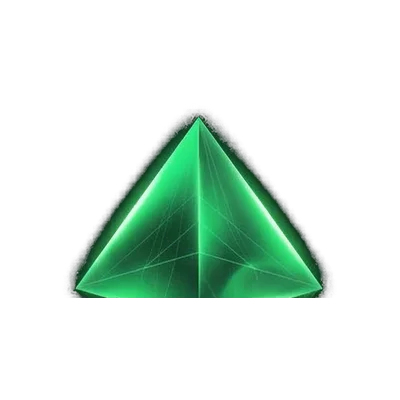
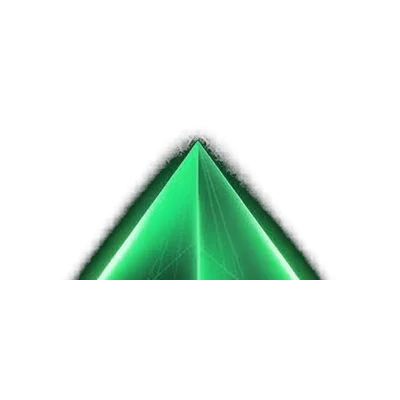
Real Rast products, diet from profile, overview, pyramid fix, round kaffee
Kaffee:
- Real Rast sortiment from rastshop.ch:
  Milano, Bologna Bio Fairtrade, Como Bio Fairtrade, Bio Espresso,
  Yirga Cheffe Bio, Barista Espresso, Eldorado, Premium, Wiener,
  Festival, Jubiläums-Edition, Home-Office, Koffeinfrei Bio Fairtrade
- Each with real origin info and tasting notes from rastshop.ch

Meal signup:
- Own diet/allergies now taken from profile (not asked again)
- Only guests get diet + allergies fields
- Diet summary pills at top of meal section:
  🍖 X Fleisch  🥗 X Vegi  🌱 X Vegan

Pyramid:
- Re-cropped tighter (700x350 region, y 100-450)
- Now fits properly, no clipping on HomeScreen

Home Kaffee widget:
- Round-corner tile (rounded-3xl) with gradient
- Large ☕ icon
- Shows: name, tasting notes, origin, Fair Trade badge
- Much richer than before

https://claude.ai/code/session_01US6CgeRv9ty9KR9cqwQo8o

Changed region(s): [[0.15, 0.27, 0.84, 0.75]]

diff --git a/src/app/termine/[id]/page.tsx b/src/app/termine/[id]/page.tsx
@@ -212,9 +212,11 @@ export default function TerminDetailPage() {
   const [termin, setTermin] = useState<TerminDetail | null>(initial ?? null);
   const [newTraktandum, setNewTraktandum] = useState("");
   const [showSignup, setShowSignup] = useState(false);
-  const [signupDiet, setSignupDiet] = useState("Fleisch");
-  const [signupAllergies, setSignupAllergies] = useState("");
   const [signupGuestDetails, setSignupGuestDetails] = useState<Guest[]>([]);
+
+  // Aus Profil (Mock)
+  const myDiet = "Fleisch";
+  const myAllergies = "";
 
   if (!termin) {
     return (
@@ -230,6 +232,19 @@ export default function TerminDetailPage() {
     (sum, s) => sum + 1 + s.guestDetails.length,
     0
   );
+
+  // Diät-Zusammenfassung
+  const dietCounts = { Fleisch: 0, Vegi: 0, Vegan: 0, Andere: 0 };
+  termin.mealSignups.forEach((s) => {
+    const add = (d: string) => {
+      if (d === "Fleisch") dietCounts.Fleisch++;
+      else if (d === "Vegi") dietCounts.Vegi++;
+      else if (d === "Vegan") dietCounts.Vegan++;
+      else dietCounts.Andere++;
+    };
+    add(s.diet);
+    s.guestDetails.forEach((g) => add(g.diet));
+  });
 
   function addTraktandum(e: React.FormEvent) {
     e.preventDefault();
@@ -268,14 +283,13 @@ export default function TerminDetailPage() {
         ...termin.mealSignups,
         {
           name: "Alain",
-          diet: signupDiet,
-          allergies: signupAllergies,
+          diet: myDiet,
+          allergies: myAllergies,
           guestDetails: signupGuestDetails,
         },
       ],
     });
     setShowSignup(false);
-    setSignupAllergies("");
     setSignupGuestDetails([]);
   }
 
@@ -520,53 +534,46 @@ export default function TerminDetailPage() {
             </button>
           </div>
 
+          {/* Diät-Zusammenfassung */}
+          {totalGuests > 0 && (
+            <div className="mb-3 flex flex-wrap gap-2">
+              {dietCounts.Fleisch > 0 && (
+                <span className="rounded-full bg-red-500/15 px-3 py-1 text-xs text-red-300">
+                  🍖 {dietCounts.Fleisch} Fleisch
+                </span>
+              )}
+              {dietCounts.Vegi > 0 && (
+                <span className="rounded-full bg-lime-500/15 px-3 py-1 text-xs text-lime-300">
+                  🥗 {dietCounts.Vegi} Vegi
+                </span>
+              )}
+              {dietCounts.Vegan > 0 && (
+                <span className="rounded-full bg-emerald-500/15 px-3 py-1 text-xs text-emerald-300">
+                  🌱 {dietCounts.Vegan} Vegan
+                </span>
+              )}
+              {dietCounts.Andere > 0 && (
+                <span className="rounded-full bg-gray-500/15 px-3 py-1 text-xs text-gray-300">
+                  {dietCounts.Andere} Andere
+                </span>
+              )}
+            </div>
+          )}
+
           {showSignup && (
             <form
               onSubmit={handleMealSignup}
               className="mb-3 rounded-lg border border-secondary/30 bg-secondary/5 p-3"
             >
-              {/* Eigene Anmeldung */}
-              <p className="mb-2 font-mono text-[10px] font-bold uppercase tracking-wider text-secondary">
-                Ich selbst
+              <p className="mb-3 text-xs text-gray-400">
+                Deine Ernährung ({myDiet}) wird automatisch aus deinem Profil
+                übernommen.
               </p>
-              <div className="mb-2">
-                <label className="mb-1 block text-xs text-gray-400">
-                  Meine Ernährung
-                </label>
-                <div className="flex gap-2">
-                  {["Fleisch", "Vegi", "Vegan"].map((d) => (
-                    <button
-                      key={d}
-                      type="button"
-                      onClick={() => setSignupDiet(d)}
-                      className={`flex-1 rounded py-1.5 font-mono text-xs transition-colors ${
-                        signupDiet === d
-                          ? "bg-secondary text-white"
-                          : "border border-gray-700 text-gray-400"
-                      }`}
-                    >
-                      {d}
-                    </button>
-                  ))}
-                </div>
-              </div>
-              <div className="mb-3">
-                <label className="mb-1 block text-xs text-gray-400">
-                  Meine Allergien / Unverträglichkeiten
-                </label>
-                <input
-                  type="text"
-                  value={signupAllergies}
-                  onChange={(e) => setSignupAllergies(e.target.value)}
-                  placeholder="z.B. Laktose, Nüsse..."
-                  className="w-full rounded border border-gray-700 bg-gray-900 px-3 py-1.5 text-sm text-white focus:border-secondary focus:outline-none"
-                />
-              </div>
 
               {/* Gäste */}
-              <div className="mb-3 flex items-center justify-between border-t border-secondary/20 pt-3">
+              <div className="mb-3 flex items-center justify-between">
                 <p className="font-mono text-[10px] font-bold uppercase tracking-wider text-secondary">
-                  Gäste ({signupGuestDetails.length})
+                  Gäste mitbringen ({signupGuestDetails.length})
                 </p>
                 <button
                   type="button"

diff --git a/src/app/kaffee/page.tsx b/src/app/kaffee/page.tsx
@@ -18,61 +18,91 @@ interface RastKaffee {
   fairtrade: boolean;
 }
 
-// Sortiment Rast Kaffee (Ebikon) — manuell gepflegt, keine Live-API
+// Sortiment Rast Kaffee (Ebikon) — manuell gepflegt nach rastshop.ch
 const rastSortiment: RastKaffee[] = [
   {
-    name: "Crema No. 1",
-    herkunft: "Brasilien, Honduras, Äthiopien",
-    duftnotizen: "Schokolade, Mandel, milde Säure",
-    fairtrade: true,
-  },
-  {
-    name: "Espresso No. 3",
-    herkunft: "Brasilien, Indien, Guatemala",
-    duftnotizen: "Dunkle Schokolade, Karamell, Haselnuss",
-    fairtrade: true,
-  },
-  {
-    name: "Espresso Forte",
-    herkunft: "Brasilien, Robusta",
-    duftnotizen: "Kräftig, würzig, lange Crema",
+    name: "Milano",
+    herkunft: "Guatemala, Costa Rica, Brasilien, Java",
+    duftnotizen: "Kräftig, schokoladig, voller Körper",
     fairtrade: false,
   },
   {
-    name: "Espresso Decaffeinato",
-    herkunft: "Mexiko, Honduras",
-    duftnotizen: "Nougat, Kakao, Vanille (entkoffeiniert)",
+    name: "Bologna Bio Fairtrade",
+    herkunft: "Bio Arabica Blend",
+    duftnotizen: "Klassisch italienisch, modern & frisch",
     fairtrade: true,
   },
   {
-    name: "Äthiopien Sidamo",
-    herkunft: "Äthiopien",
-    duftnotizen: "Jasmin, Zitrusfrucht, Blaubeere",
+    name: "Como Bio Fairtrade",
+    herkunft: "Bio Arabica",
+    duftnotizen: "Bittermandel, Schokolade, feine Zitrusnote",
     fairtrade: true,
   },
   {
-    name: "Kolumbien Supremo",
-    herkunft: "Kolumbien",
-    duftnotizen: "Karamell, Orange, Walnuss",
+    name: "Bio Espresso",
+    herkunft: "Brasilien, Indonesien (Bio)",
+    duftnotizen: "Beeren, dunkle Nussschokolade",
     fairtrade: true,
   },
   {
-    name: "Guatemala Antigua",
-    herkunft: "Guatemala",
-    duftnotizen: "Schokolade, Gewürze, feine Rauchnote",
+    name: "Yirga Cheffe Bio",
+    herkunft: "Äthiopien (1500-2200m)",
+    duftnotizen: "Jasmin, Bergamotte, Blumen",
     fairtrade: true,
   },
   {
-    name: "Peru Bio",
-    herkunft: "Peru",
-    duftnotizen: "Milchschokolade, Rohrzucker, sanft",
+    name: "Barista Espresso",
+    herkunft: "Kenia, Guatemala, Indonesien, Indien, Brasilien",
+    duftnotizen: "Komplex, intensiv, lange Crema",
+    fairtrade: false,
+  },
+  {
+    name: "Eldorado",
+    herkunft: "Indien, Guatemala, Brasilien, Costa Rica",
+    duftnotizen: "Ausgewogen, süsslich, Karamell",
+    fairtrade: false,
+  },
+  {
+    name: "Premium",
+    herkunft: "Indonesien, Guatemala, Brasilien, Indien",
+    duftnotizen: "Vollmundig, nussig, wenig Säure",
+    fairtrade: false,
+  },
+  {
+    name: "Wiener",
+    herkunft: "Guatemala, Costa Rica, Brasilien, Indonesien",
+    duftnotizen: "Traditionell, weich, nussig",
+    fairtrade: false,
+  },
+  {
+    name: "Festival",
+    herkunft: "Kenia, Guatemala, Brasilien, Costa Rica",
+    duftnotizen: "Fruchtig, lebendig, feine Säure",
+    fairtrade: false,
+  },
+  {
+    name: "Jubiläums-Edition",
+    herkunft: "Papua-Neuguinea, Costa Rica, Guatemala, Kolumbien, Brasilien",
+    duftnotizen: "Komplex, festlich, ausgewogen",
+    fairtrade: false,
+  },
+  {
+    name: "Home-Office",
+    herkunft: "Blend",
+    duftnotizen: "Mild, ausgewogen, für jede Tageszeit",
+    fairtrade: false,
+  },
+  {
+    name: "Koffeinfrei Bio Fairtrade",
+    herkunft: "Bio Arabica",
+    duftnotizen: "Mild, rund, Schokolade",
     fairtrade: true,
   },
 ];
 
 export default function KaffeePage() {
   const [abo, setAbo] = useState<AboType>("1-doppio");
-  const [currentBeans, setCurrentBeans] = useState("Äthiopien Sidamo");
+  const [currentBeans, setCurrentBeans] = useState("Bologna Bio Fairtrade");
   const [changedBy] = useState("Sophie");
   const [changedAt] = useState("2026-04-09");
   const [showSelect, setShowSelect] = useState(false);

diff --git a/src/components/HomeScreen.tsx b/src/components/HomeScreen.tsx
@@ -68,7 +68,12 @@ export default function HomeScreen() {
   const router = useRouter();
   const userName = "Alain";
   const hasKaffeeAbo = true;
-  const currentKaffee = "Äthiopien Sidamo";
+  const currentKaffee = {
+    name: "Bologna Bio Fairtrade",
+    herkunft: "Bio Arabica Blend",
+    duftnotizen: "Klassisch italienisch, modern & frisch",
+    fairtrade: true,
+  };
   const [pinnwand, setPinnwand] = useState(initialPinnwand);
   const [newNote, setNewNote] = useState("");
   const [showNoteForm, setShowNoteForm] = useState(false);
@@ -210,19 +215,36 @@ export default function HomeScreen() {
         </div>
       </div>
 
-      {/* Kaffee (nur für Abo) */}
+      {/* Kaffee (nur für Abo) — runde Kachel ausführlich */}
       {hasKaffeeAbo && (
         <div
-          className="mb-4 cursor-pointer rounded-lg border border-white/5 bg-gradient-to-r from-amber-600/10 to-transparent p-3 transition-all hover:from-amber-600/15"
+          className="mb-6 cursor-pointer rounded-3xl border border-amber-600/30 bg-gradient-to-br from-amber-700/15 to-amber-900/5 p-5 transition-all hover:border-amber-500/50 hover:shadow-[0_0_30px_rgba(255,180,50,0.15)]"
           onClick={() => router.push("/kaffee")}
         >
-          <p className="font-display text-[10px] font-bold uppercase tracking-widest text-amber-500">
-            KAFFEE
-          </p>
-          <p className="mt-0.5 text-sm text-amber-200">
-            {currentKaffee}{" "}
-            <span className="text-gray-500">· in der Mühle</span>
-          </p>
+          <div className="flex items-start gap-3">
+            <div className="flex h-12 w-12 shrink-0 items-center justify-center rounded-full bg-amber-700/30 text-2xl">
+              ☕
+            </div>
+            <div className="flex-1">
+              <p className="font-display text-[10px] font-bold uppercase tracking-widest text-amber-500">
+                AKTUELL IN DER MÜHLE
+              </p>
+              <p className="mt-1 text-base font-semibold text-amber-200">
+                {currentKaffee.name}
+              </p>
+              <p className="mt-0.5 text-xs text-amber-300/80">
+                {currentKaffee.duftnotizen}
+              </p>
+              <div className="mt-1.5 flex items-center gap-2 text-[10px] text-gray-500">
+                <span>{currentKaffee.herkunft}</span>
+                {currentKaffee.fairtrade && (
+                  <span className="rounded-full bg-emerald-600/20 px-1.5 py-0.5 text-emerald-400">
+                    Fair Trade
+                  </span>
+                )}
+              </div>
+            </div>
+          </div>
         </div>
       )}
 
